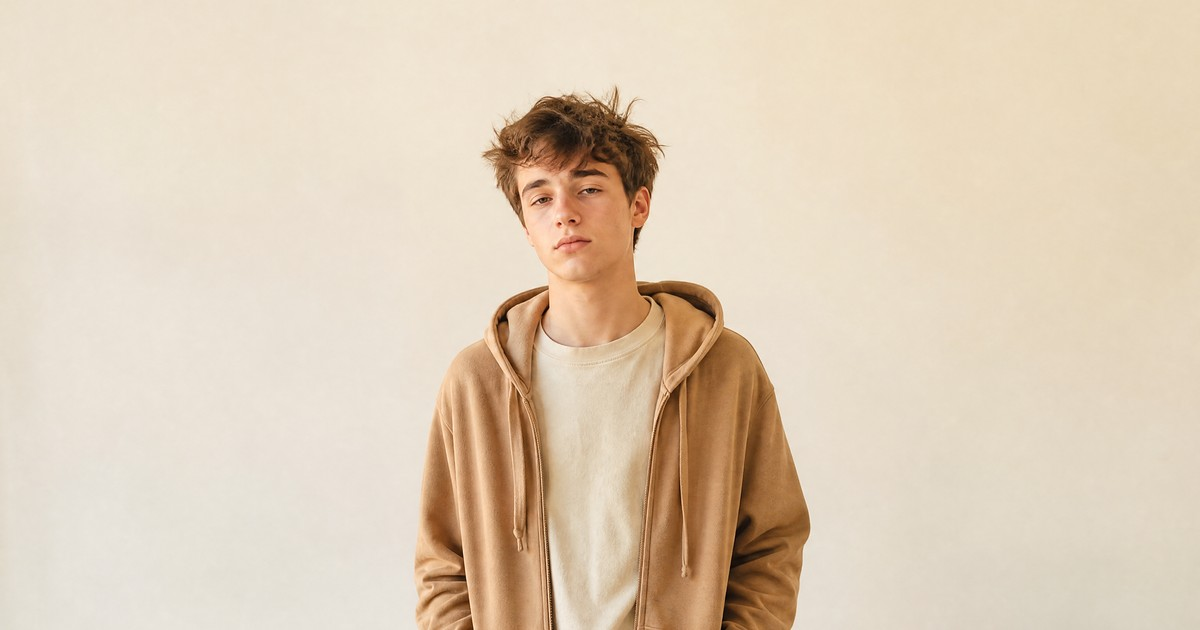
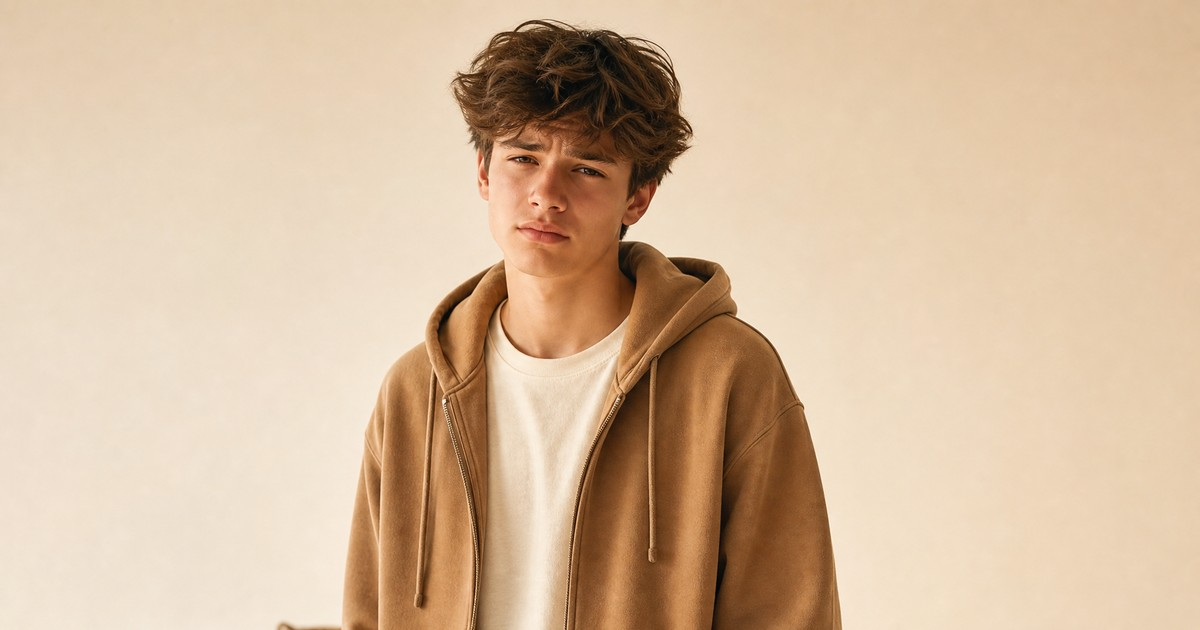
blog: revert hero framing to ~50-60% spec, previous fix overcorrected to too much space
Dany checked the original prompt used for the row-2 reference photos (Coup de
chaleur, Intoxications, Premiers secours) and confirmed they used the same
"~50-60% of frame, generous negative space" spec as posts #36/#37/#38. The
tight-crop complaint wasn't caused by that number, and the "~40-45% / 20%
margin per side" rule from the previous commit overcorrected into too much
empty space. Reverted the template to the original ~50-60% spec and
regenerated all three heroes again with it.

diff --git a/blog.html b/blog.html
@@ -375,7 +375,7 @@
                 <article class="blog-card fade-up">
                     <a href="blog/33-rentree-rythme-ado/rentree-rythme-sommeil-ado-queven.html">
                         <div class="blog-image-placeholder" style="background: url('images/Blog%20photos/blog-36-rentree-rythme-ado.jpg') center/cover; padding: 0; font-size: 0;">
-                            <img src="images/Blog%20photos/blog-36-rentree-rythme-ado.jpg" alt="Adolescent fatigué et peu motivé le matin de la rentrée scolaire, conseils pharmacie, Pharmacie Charnal Quéven" width="1600" height="1066" style="width: 100%; height: 100%; object-fit: cover; display: block;">
+                            <img src="images/Blog%20photos/blog-36-rentree-rythme-ado.jpg" alt="Adolescent fatigué et peu motivé le matin de la rentrée scolaire, conseils pharmacie, Pharmacie Charnal Quéven" width="1600" height="1062" style="width: 100%; height: 100%; object-fit: cover; display: block;">
                         </div>
                     </a>
                     <div class="blog-content">

diff --git a/blog/33-rentree-rythme-ado/rentree-rythme-sommeil-ado-queven.html b/blog/33-rentree-rythme-ado/rentree-rythme-sommeil-ado-queven.html
@@ -695,7 +695,7 @@
     <article class="article-content">
         <img src="../../images/Blog%20photos/blog-36-rentree-rythme-ado.jpg"
              alt="Adolescent fatigué et peu motivé le matin de la rentrée scolaire, conseils pharmacie, Pharmacie Charnal Quéven"
-             width="1600" height="1066"
+             width="1600" height="1062"
              style="width:100%;max-height:420px;object-fit:cover;border-radius:var(--radius-md);margin-bottom:var(--space-xl);"
              loading="eager" fetchpriority="high">
 
